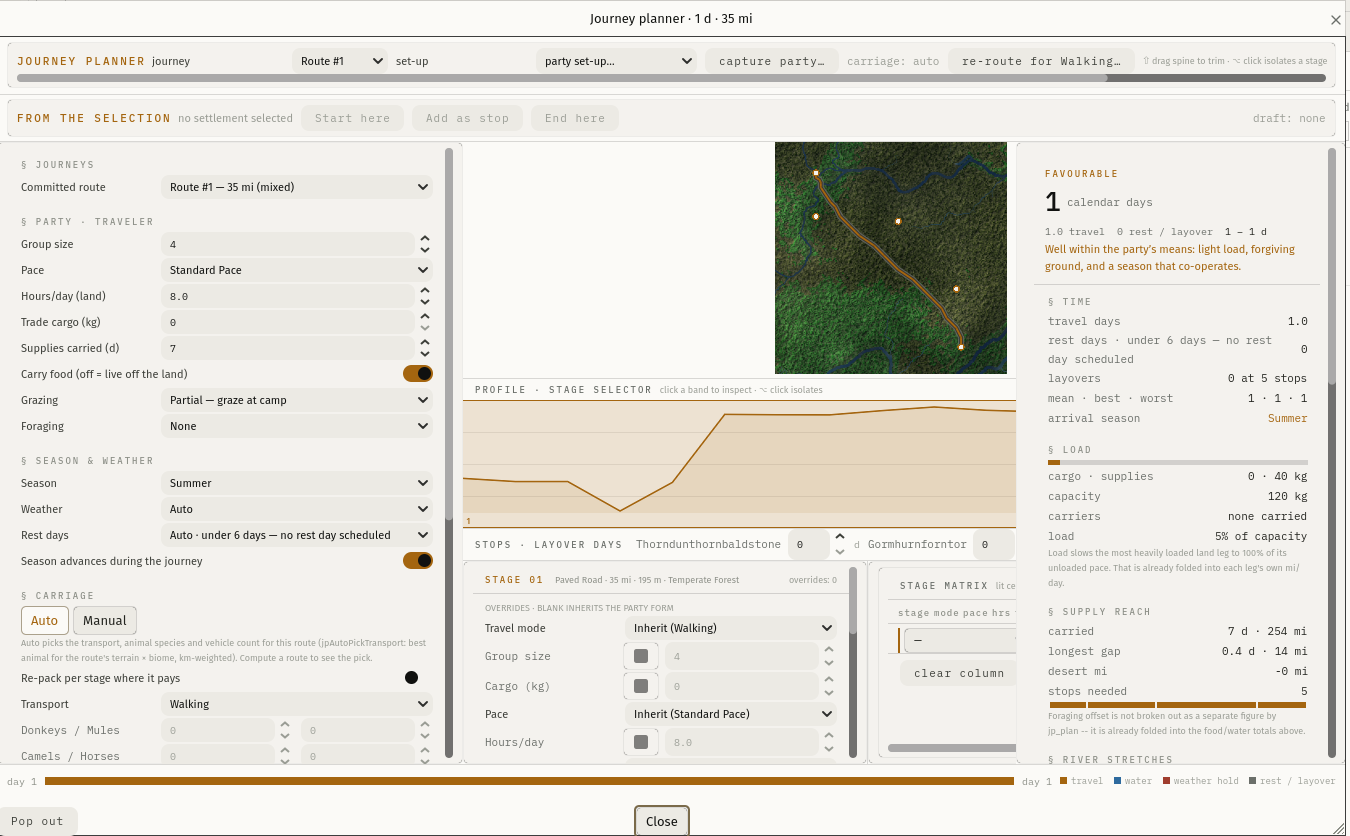
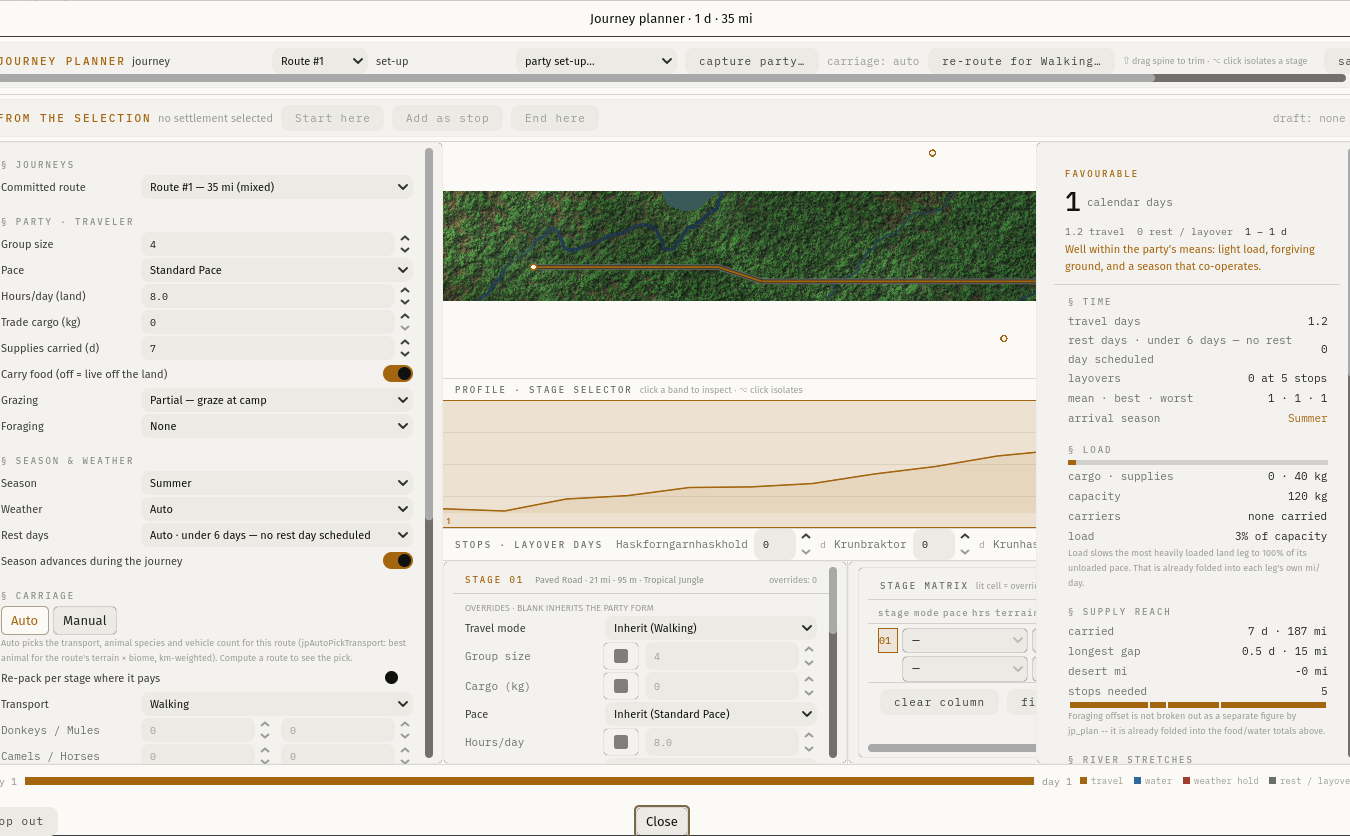
Ruling EU items 2 and 3, after Ruling EV: stop steps on the way, a least saving, no offers to parties with animals
Rebased onto fcda4d3d (Ruling EV's basin routing moves the census worlds' rivers and settlements) and re-measured.

- The x16 frames showed a joined route hooking beside the road where a crossing way cut its ride short just before the
  town. The first and last splice now reach a stop within reach along their way's own line, over at most MIN_RIDE_CELLS
  routed cells and only where the way gets there about as directly as the straight line, and a two-point step is drawn
  straight. An unbounded first version re-routed one owner-world route past the cost test (0.43 to 1.00 of its points
  on a way, 126 to 40 planned days); the bound puts it back.
- An offer must save at least MIN_SAVING_DAYS (0.05 d, the planner's one-decimal display; owner Q3).
- A party with pack animals, a mount or vehicles is offered no river stretch yet and told why (owner Q6: the hold
  costing counts neither).
- The alignment note says "cuts across the route's bends" past an eta of 1 instead of a percentage over 100.
- way_join_census passes the world's basin routing to fresh_river_channels_with.

Measured on the rebased tree (release, run alone, 24 town routes): route strokes beside a way at x4 27 to 0 and at the
opening view 2 to 0; route points on a way 0.42-1.00 with the join; planned days equal or fewer on 22 routes, more on 2
(+1.9 % and 0.2 d; the margin is router cost); commit 2.8-2.9 times the plain one (about 150 against 52 ms); offers on 13
[…]

diff --git a/cartalith-native/crates/cartalith-civ/src/way_join.rs b/cartalith-native/crates/cartalith-civ/src/way_join.rs
@@ -38,7 +38,10 @@
 //!    route renders on the way's curve instead of beside it. Only the off-way
 //!    pieces are smoothed ([`civ_smooth_path`]). A spliced point that fails the
 //!    mode's terrain test (a way sample drawn on water: Ruling EU item 1's
-//!    residue) keeps the routed cells for that run.
+//!    residue) keeps the routed cells for that run. A stop within reach of the
+//!    first or last ridden way is reached along that way over at most
+//!    [`MIN_RIDE_CELLS`] routed cells, then by one straight step, so the line
+//!    does not hook beside the road at a town (`extend_stretch`).
 //!
 //! **What it must never do:** change [`tools::civ_dijkstra_path`] or
 //! [`tools::civ_join_dijkstra_segs`] (every golden, every way commit and the
@@ -214,6 +217,45 @@ fn way_stretch(
     out.push((pb.2, pb.3));
     out.dedup();
     (out.len() >= 2).then_some(out)
+}
+
+/// `st` (a way stretch, in travel order) extended along its own way so that its
+/// last point (`at_end`) or its first point (not `at_end`) is the projection of
+/// `stop`, when `stop` lies within `reach` of the way and beyond that end of the
+/// stretch in the stretch's own direction (never folding back along the way), and
+/// the way gets there about as directly as the straight line does: the length it
+/// adds is at most `(1 + JOIN_MARGIN)` times the straight distance from the
+/// stretch's end to the stop plus `reach`, so a stop beside a winding road is
+/// never reached by riding the road's whole detour. The other end of the stretch
+/// stays where it is. The caller extends only over the last few routed cells
+/// before a stop (see `civ_dijkstra_path_joined`): this tidies the step onto or
+/// off a way and must never re-route a leg past the join's cost test.
+fn extend_stretch(
+    pts: &[(f64, f64)],
+    brks: &[usize],
+    st: &[(f64, f64)],
+    stop: (f64, f64),
+    at_end: bool,
+    reach: f64,
+    gw: usize,
+) -> Option<Vec<(f64, f64)>> {
+    let (fixed, far) = if at_end { (st[0], *st.last()?) } else { (*st.last()?, st[0]) };
+    let pf = project(pts, fixed.0, fixed.1)?;
+    let pe = project(pts, far.0, far.1)?;
+    let ps = project(pts, stop.0, stop.1)?;
+    let key = |p: &(usize, f64, f64, f64, f64)| p.0 as f64 + p.1;
+    let (kf, ke, ks) = (key(&pf), key(&pe), key(&ps));
+    // The stop must lie past the stretch's far end, on the far side of `fixed`.
+    if ps.4 > reach || (ke - kf) * (ks - ke) <= 0.0 {
+        return None;
+    }
+    let ext = way_stretch(pts, brks, fixed, stop, reach, gw)?;
+    let len = |l: &[(f64, f64)]| l.windows(2).map(|w| (w[1].0 - w[0].0).hypot(w[1].1 - w[0].1)).sum::<f64>();
+    let straight = (stop.0 - far.0).hypot(stop.1 - far.1);
+    if len(&ext) - len(st) > (straight + reach) * (1.0 + JOIN_MARGIN) {
+        return None;
+    }
+    Some(if at_end { ext } else { ext.into_iter().rev().collect() })
 }
 
 /// Whether every point of `st`, and every point along its segments at most half
@@ -393,6 +435,34 @@ pub fn civ_dijkstra_path_joined(
     if splices.is_empty() {
         return (civ_route_trace(ctx, &grid, &prev_c, cells, (sx, sy, ex, ey), mode), report, Vec::new());
     }
+    // A stop within reach of the first or last ridden way is reached along that
+    // way, then by a straight step: otherwise the few routed cells between the
+    // ride's end and the stop are smoothed into a hook beside the road (seen at
+    // x16 on seed 912345, `_jpwayriver_probe`, 2026-11-13).
+    // Only over at most `min_ride_cells` routed cells before or after the stop:
+    // a longer stretch between the stop and the ride is a route the cost test
+    // chose, and is kept.
+    let last_raw = raw.len() - 1;
+    if let Some(first) = splices.first_mut().filter(|f| f.1 <= opts.min_ride_cells) {
+        let (w, _, _, st) = first;
+        let wr = &ctx.ways[*w];
+        if let Some(ext) = extend_stretch(wr.pts, wr.brks, st, raw[0], false, reach, ctx.gw)
+            && (!checked || stretch_is_valid(&ext, &ok_at))
+        {
+            *st = ext;
+            first.1 = 1;
+        }
+    }
+    if let Some(last) = splices.last_mut().filter(|l| last_raw - l.2 <= opts.min_ride_cells + 1) {
+        let (w, _, _, st) = last;
+        let wr = &ctx.ways[*w];
+        if let Some(ext) = extend_stretch(wr.pts, wr.brks, st, raw[last_raw], true, reach, ctx.gw)
+            && (!checked || stretch_is_valid(&ext, &ok_at))
+        {
+            *st = ext;
+            last.2 = last_raw - 1;
+        }
+    }
     report.spliced_runs = splices.len();
     let (pts, brks, km, spans) = assemble(ctx, &raw, &splices, &valid);
     (DijkstraPath { pts, brks, km, reachable: true }, report, spans)
@@ -439,8 +509,18 @@ fn assemble(
     let mut brks: Vec<usize> = Vec::new();
     let mut km = 0.0f64;
     let mut spans = Vec::new();
+    let checked = !matches!(valid, TerrainValid::Unchecked);
+    let ok_at = |x: f64, y: f64| !checked || valid.check(x, y, ctx.gw, ctx.gh, ctx.water_bodies);
     let smooth_piece = |piece: &[(f64, f64)], pts: &mut Vec<(f64, f64)>, brks: &mut Vec<usize>, km: &mut f64| {
         if piece.len() < 2 {
+            return;
+        }
+        // A two-point piece (a stop's straight step onto or off a way) has
+        // nothing to smooth; it is drawn as the straight step it is when that
+        // step passes the leg's terrain test, so smoothing adds no wobble at it.
+        if piece.len() == 2 && stretch_is_valid(piece, &ok_at) {
+            *km += polyline_km(piece, ctx.gw, ctx.map_width_km);
+            push_piece(piece, &[], pts, brks);
             return;
         }
         match civ_smooth_path(piece, ctx.gw, ctx.gh, ctx.water_bodies, ctx.map_width_km, valid) {
@@ -713,6 +793,55 @@ mod tests {
         assert_eq!(spans.len(), 1);
         let on = p.pts.iter().filter(|q| q.0 > 10.0 && q.0 < 50.0 && dist_to(&w, **q) > 1e-9).count();
         assert_eq!(on, 0, "{:?}", p.pts);
+    }
+
+    /// Protects the stop step: a destination two cells past the end of the road it
+    /// rides is reached along the road to its end, then by one straight step, never
+    /// by routed cells smoothed into a hook beside the road; the same at the start.
+    #[test]
+    fn a_stop_beside_the_road_is_reached_along_it() {
+        let (gw, gh) = (60, 30);
+        let (field, wb) = flat(gw, gh);
+        // Steps shorter than half the map: a longer step reads as the x seam.
+        let w: Vec<(f64, f64)> = (0..=4).map(|k| (8.0 + 11.0 * k as f64, 12.0)).collect();
+        let ways = [road(&w)];
+        let c = ctx(&field, &wb, &ways, gw, gh);
+        let (p, _, spans) = civ_dijkstra_path_joined(&c, 6.5, 13.5, 53.5, 13.5, RouteMode::Land, &WayJoin::new(1));
+        assert!(!spans.is_empty());
+        let n = p.pts.len();
+        assert_eq!((p.pts[0], p.pts[n - 1]), ((6.5, 13.5), (53.5, 13.5)));
+        // Every point lies on the road or on the straight step from a stop to the
+        // road's end ((8, 12) and (52, 12)), never beside the road.
+        let steps = [vec![(6.5, 13.5), (8.0, 12.0)], vec![(52.0, 12.0), (53.5, 13.5)]];
+        for q in &p.pts {
+            let off = dist_to(&w, *q).min(dist_to(&steps[0], *q)).min(dist_to(&steps[1], *q));
+            assert!(off < 1e-9, "{q:?} is off the road: {:?}", p.pts);
+        }
+        assert!(p.pts.contains(&(8.0, 12.0)) && p.pts.contains(&(52.0, 12.0)), "{:?}", p.pts);
+    }
+
+    /// Protects the stop step where the ride is cut short: a highway crossing the
+    /// road just before the stop owns the cells there (it has the higher planner
+    /// priority), so the road's run ends before the crossing; the stop, beside the
+    /// road two cells past it, is still reached along the road's own line and one
+    /// straight step, where the routed cells through the crossing would draw a
+    /// hook half a cell beside the road.
+    #[test]
+    fn a_ride_cut_short_by_a_crossing_still_reaches_the_stop_along_the_road() {
+        let (gw, gh) = (60, 30);
+        let (field, wb) = flat(gw, gh);
+        // Steps shorter than half the map: a longer step reads as the x seam.
+        let w: Vec<(f64, f64)> = (0..=4).map(|k| (8.0 + 11.0 * k as f64, 12.0)).collect();
+        let hw = [(46.0, 2.0), (46.0, 12.0), (46.0, 22.0)];
+        let ways = [road(&w), WayRef { pts: &hw, brks: &[], sea: false, hidden: false, class: WayClass::Highway }];
+        let c = ctx(&field, &wb, &ways, gw, gh);
+        let (p, _, spans) = civ_dijkstra_path_joined(&c, 6.5, 13.5, 48.5, 13.5, RouteMode::Land, &WayJoin::new(2));
+        assert!(!spans.is_empty());
+        let steps = [vec![(6.5, 13.5), (8.0, 12.0)], vec![(48.5, 12.0), (48.5, 13.5)]];
+        for q in &p.pts {
+            let off = dist_to(&w, *q).min(dist_to(&steps[0], *q)).min(dist_to(&steps[1], *q));
+            assert!(off < 1e-9, "{q:?} is off the road: {:?}", p.pts);
+        }
     }
 
     /// Protects the terrain check on a splice: a way drawn across a lake (Ruling EU

diff --git a/cartalith-native/crates/cartalith-civ/src/river_stretch.rs b/cartalith-native/crates/cartalith-civ/src/river_stretch.rs
@@ -62,6 +62,12 @@ use crate::{
 /// judgement (owner question Q1).
 pub const ETA_MIN: f64 = 1.0 / 1.5;
 
+/// The least saving, in days, an offer must make: `0.05` d. A labelled judgement
+/// (owner question Q3): the planner prints days to one decimal, so a stretch that
+/// would show "saves 0.0 d" (measured on the census worlds: 4-12 km stretches
+/// saving minutes) is not an offer.
+pub const MIN_SAVING_DAYS: f64 = 0.05;
+
 /// A recommended hull is the cheapest whose days are within this share of the
 /// fastest hull's: `JP_STAGE_PICK_MARGIN` (0.10), the margin the per-stage auto
 /// pick already uses for "close enough to the best", so the planner has one
@@ -514,8 +520,9 @@ pub const NOTE_NONE_QUICKER: &str = "No navigable river along this route saves t
 /// (a shorter one would fold back into land). A candidate overlapping a leg the
 /// plan already holds is skipped. Each offer's days come from an **exact**
 /// re-plan with the leg added, sailed by the recommended hull, against `base`
-/// (the plan as computed), never an estimate; an offer that saves no time is not
-/// returned (owner question Q2's default: upstream only when quicker). Costs two
+/// (the plan as computed), never an estimate; an offer that saves less than
+/// [`MIN_SAVING_DAYS`] is not returned (owner question Q2's default: upstream
+/// only when quicker). Costs two
 /// `jp_plan_full` runs per candidate, at most [`MAX_OFFERS`] candidates.
 #[allow(clippy::too_many_arguments)]
 pub fn jp_river_offers(
@@ -581,7 +588,7 @@ pub fn jp_river_offers(
         let ((b, bb), (d, db)) = (days_of(base), days_of(&exact));
         let (saving, basis, days_with) =
             if bb == db { (b - d, db, d) } else { (base.days - exact.days, "travel", exact.days) };
-        if saving.is_nan() || saving <= 0.0 {
+        if saving.is_nan() || saving < MIN_SAVING_DAYS {
             continue;
         }
         out.push(JpRiverOffer {

diff --git a/cartalith-native/crates/cartalith-civ/tests/ruling_eu_river_legs.rs b/cartalith-native/crates/cartalith-civ/tests/ruling_eu_river_legs.rs
@@ -101,11 +101,13 @@ fn walking() -> JpPlan {
 }
 
 /// Protects the alignment threshold as a literal: `1 / 1.5` (Leopold and
-/// Wolman's meander sinuosity), so a change to it is deliberate.
+/// Wolman's meander sinuosity), the recommendation margin and the least saving,
+/// so a change to any of them is deliberate.
 #[test]
 fn eta_min_is_one_over_the_meander_sinuosity() {
     assert!((ETA_MIN - 0.666_666_666_666_666_6).abs() < 1e-15);
     assert!((RECOMMEND_MARGIN - 0.10).abs() < 1e-15);
+    assert!((cartalith_civ::river_stretch::MIN_SAVING_DAYS - 0.05).abs() < 1e-15);
 }
 
 /// Protects the stretch finder: a river running beside the route three cells off

diff --git a/cartalith-native/crates/cartalith-godot/src/way_join_census.rs b/cartalith-native/crates/cartalith-godot/src/way_join_census.rs
@@ -131,6 +131,7 @@ fn measure_planner_way_join_and_river_offers() {
             p.map_width_km,
             ws.integrated_drainage,
             cartalith_engine::routing_roughness_of(ws.routing_roughness, gw, gh, p.world).as_ref(),
+            cartalith_engine::fill_tilt_of(ws.basin_routing),
         );
         let world = JpWorld {
             gw,

diff --git a/cartalith-native/docs/STATUS.md b/cartalith-native/docs/STATUS.md
@@ -420,7 +420,8 @@ keep their points.
   whose progress along the route is at least `ETA_MIN` = 1/1.5 of its own length (Leopold and Wolman's meander sinuosity,
   a recalled citation), no shorter than the stage builder's water-gap length. Each offer's saving is an **exact re-plan**
   with the leg sailed by the recommended hull (the cheapest within `RECOMMEND_MARGIN` 10 % of the fastest that fits the
-  whole stretch, owner question Q5's default); an offer that saves no time is not shown. An accepted leg is
+  whole stretch, owner question Q5's default); an offer that saves less than `MIN_SAVING_DAYS` 0.05 d is not shown, and a
+  party with pack animals, a mount or vehicles is offered none yet, with the reason (owner question Q6). An accepted leg is
   `JpPlan::river_legs`: `jp_plan_full` splices its channel cells into the planned route, `jp_derive_stages_legs` makes
   its points river stages whatever the transport (never collapsed, absorbed or merged by the 14-stage cap), the leg sails
   its own hull (never an index-keyed override), and a leg that no longer matches the world or the route is dropped with
@@ -430,47 +431,64 @@ keep their points.
   the join report) in the results on every form, offered stretches dashed and numbered on the route map, on-way stretches
   cased, a river leg's Vessel override greyed with its reason, and the join said on the status line after a commit
   (`JOURNEY_PLANNER_SPEC.md` §8).
-- **Measured (release, `way_join_census::measure_planner_way_join_and_river_offers`, run alone; 8 town pairs a world, the
-  most populous places, walking, join OFF → ON; the figures below repeated exactly in a second run):**
-  - Commit time per route, median (min..max) over 8 routes, two separate runs on a shared machine: owner world 87 (79..157)
-    → 314 (220..645) ms and 432 (252..551) → 608 (419..813) ms; 483920 109 → 251 and 54 → 153 ms; 912345 77 → 204 and 255 →
-    487 ms. The join costs about 1.4-3.6 times the plain commit; the spreads are wide and no closer ratio is established.
-    The river offers added 1-7 ms (median) to a compute.
-  - Share of route points the planner credits to a way (`jp_way_spans`): owner world 0.56-0.96 → 0.77-1.00; 483920
-    0.83-1.00 → 0.96-1.00; 912345 0.71-0.94 → 0.96-1.00.
+- **Measured (release, `way_join_census::measure_planner_way_join_and_river_offers`, run alone, on this tree rebased onto
+  `fcda4d3d` (Ruling EV's basin routing, which moves the worlds' rivers and settlements); 8 town pairs a world, the most
+  populous places, walking, join OFF → ON):**
+  - Commit time per route, median (min..max) over 8 routes: owner world 53.8 (53.3..54.6) → 151.8 (149.9..152.9) ms;
+    483920 49.8 (48.9..52.1) → 140.4 (97.0..141.6) ms; 912345 51.9 (51.2..54.4) → 149.0 (147.2..151.5) ms. An earlier
+    separate run gave the same within 3 %: the join costs about 2.8-2.9 times the plain commit. The river offers added
+    0.8-5.1 ms (median) to a compute.
+  - Share of route points the planner credits to a way (`jp_way_spans`): owner 0.31-0.98 → 0.42-0.98; 483920 0.56-0.95 →
+    0.91-1.00; 912345 0.69-1.00 → 0.94-1.00. One route reads slightly lower with the join (912345 #3, 1.00 → 0.97).
   - The route's own strokes beside a drawn way (`way_audit::bundle_stretches`, the route as one more drawn way): at the
-    opening view 0 → 0 on all 24 routes but one (912345 #7, 1 → 0). At x4: owner 16 → 5 stretches, 483920 13 → 1, 912345
-    12 → 2. Routes left with a stretch beside a way at x4: 6 of 24 (bar "zero" not met; disclosed). One of them (owner #1)
-    is unchanged by the join (way share 0.78 either way); why was not traced.
-  - Planned walking days: never worse with the join; owner 66.4 → 45.2, 147.3 → 140.6, 130.0 → 103.5 (the riding route
-    reads its road row on more of its points). Every leg's joined cost within the margin (asserted).
-  - Only 1 leg of 24 took a detour onto a way (912345 #4, 1.069 of the direct cost); the rest kept the direct path and
-    were drawn on the way they already followed. The stickier re-route rarely finds a way the direct path does not use.
-  - River offers on the joined routes: owner 7 of 8 routes, 1-2 offers each, saving 0.1-7.5 d; 483920 3 of 8 (0.1-0.4 d);
-    912345 4 of 8 (0.1-0.9 d). **The recommended hull is the Longship on every offer** (the reference rates it 11 km/h on
-    rivers; no cheaper hull came within 10 %); that is owner question Q5's to settle.
-- **Verified:** `cargo test --workspace` 275 result lines, 8 190 passed, 0 failed, 168 ignored (run after the last behaviour change; comment-only edits followed); the unit tests in `way_join`, `tools`, `lib.rs`
-  (`road_sources_cover_exactly_the_road_cells`, `way_spans_name_the_way_a_route_rides_and_bridge_one_point`),
-  `tests/ruling_eu_river_legs.rs` (12) and `project_bridge::river_legs_round_trip_under_the_documented_key`; literal
-  mutants (`Python`, exact replace, restored and hash-checked): 20 of 22 killed. Survivors: the splice's segment check
-  (`stretch_is_valid`, redundant on the fixtures with the per-point check before it, which already splits a ride at water)
-  and the leg hull in the season-drift pre-pass of `jp_plan_full` (only moves the stage mid-days the drift reads). Windowed probe `_jpwayriver_probe.tscn` (seed 912345, 1024 x 656; DLL 04:54:42, newest `.rs` 04:54:16,
+    opening view 2 → 0 (912345 #3 and #4); at x4 27 → 0 (owner 0 → 0, 483920 14 → 0, 912345 13 → 0). No route of the 24
+    keeps a stretch beside a way at either view.
+  - Planned walking days: equal or fewer on 22 of 24 routes (owner #4 148.7 → 114.9); **more on 2** (owner #5 175.4 →
+    178.8, +1.9 %; 912345 #3 2.5 → 2.7). The margin is in router cost, not planned days (the read-only map's stated
+    risk); disclosed, not fixed.
+  - Only 1 leg of 24 took a detour onto a way (483920 #5, 1.059 of the direct cost); the rest kept the direct path and are
+    drawn on the way they already followed. Every joined leg within the margin (asserted).
+  - River offers on the joined routes: owner 8 of 8 routes, 483920 0 of 8, 912345 5 of 8; 30 offers, saving 0.1-12.0 d.
+    **The recommended hull is the Longship on every offer** (the reference rates it 11 km/h on rivers; no cheaper hull
+    came within 10 %); owner question Q5's to settle.
+  - Before the rebase (the worlds as they were before Ruling EV) the same census found x4 stretches 41 → 8 over the 24
+    routes and offers on 14 of them; the stop step below was added after that run.
+- **The stop step (found by looking at the x16 frames):** a ride cut short just before its stop (a crossing way owns the
+  last cells) drew the last routed cells as a hook beside the road. The first and last splice are now extended along
+  their way to the stop's own projection, over at most `MIN_RIDE_CELLS` routed cells and only where the way gets there
+  about as directly as the straight line, and a two-point step is drawn straight. An unbounded first version re-routed one
+  owner-world route (0.43 → 1.00 of its points on a way, 126 → 40 planned days) past the cost test; the bound puts it back
+  (0.42, 126.1 d).
+- **Verified:** `cargo test --workspace` 276 result lines, 8 207 passed, 0 failed, 169 ignored, on the rebased tree after
+  the last Rust change (a doc-comment edit to `way_join.rs` followed). Unit tests: `way_join` (13, among them the loop ridden within the margin and not past it, a hidden
+  way, an undrawn edge, the drawing on the road's own line, water under a way, the stop steps, determinism), `tools`
+  (`way_owner_matches_the_discount_owner`, ties included), `lib.rs` (`road_sources_cover_exactly_the_road_cells`,
+  `way_spans_name_the_way_a_route_rides_and_bridge_one_point`), `tests/ruling_eu_river_legs.rs` (14) and
+  `project_bridge::river_legs_round_trip_under_the_documented_key`. Literal mutants (Python, exact replace, restored and
+  hash-checked): 22 of 26 killed. Survivors: the splice's segment check (`stretch_is_valid`; on the fixtures the per-point
+  check before it already splits a ride at water), the leg hull in `jp_plan_full`'s season-drift pre-pass (it moves only
+  the stage mid-days the drift reads), the stop step's direction guard, and `MIN_SAVING_DAYS` (no fixture saves between 0
+  and 0.05 d). The stop step's few-cells limit and length bound were not mutated; no unit test guards them (the census
+  caught the unlimited version: above).
+  Windowed probe `_jpwayriver_probe.tscn` (seed 912345, 1024 x 656; DLL 05:37:52 after the last `.rs` edit at 05:37:33;
   under the window lock) PASS on the desktop (mouse input through `Input.parse_input_event`) and on the phone (1080 x
-  2340, `--force-touch`, screen touches): the joined route's points lie on a way's own line (share 0.11 → 0.95 on the
+  2340, `--force-touch`, screen touches): the joined route's points lie on a way's own line (share 0.44 → 1.00 on the
   first pair), the *On ways* section draws, **use river** adds one river leg whose planned days equal the offer's to
-  0.01 d (1.84 → 0.77 d), the hull menu re-hulls it (Keelboat, 2.13 d) and **walk instead** restores 1.84 d. Phone
+  0.01 d (2.28 → 1.44 d), the hull menu re-hulls it (Keelboat, 3.68 d) and **walk instead** restores 2.28 d. Phone
   buttons 126 px tall at 1080 wide. Parse-checked `journey_planner_view.gd`, `shell/app.gd` and the probe.
   Composites in `cartalith-native/docs/evidence/ways-planner-2026-11-12/`, opened and looked at:
   `planner_join_way_x16_x4_off_on.png` (x16: the unjoined route runs as a second stroke beside the road, the joined one
-  on it), `planner_join_way_window.png`, `planner_river_offer_desktop.png` and `planner_river_offer_phone.png`.
+  on it into the town), `planner_join_way_window.png`, `planner_river_offer_desktop.png` and
+  `planner_river_offer_phone.png`.
 - **Open:** owner questions Q1 (preference or world parameter; no UI toggle yet, `set_route_join_ways` only), Q2 (margin,
   minimum ride, stickiness), Q3 (sea lanes: land ways only), Q4 (a per-route direct-line opt-out: not built), Q5 (old-route
   re-routes join: yes), and item 3's: the alignment tolerance, upstream only when quicker, the corridor of one day, the
   hull rule (Longship everywhere today), pack animals and vehicles aboard (`jp_calc_water_ex` counts neither against the
-  hold: not resolved), auto-accept (off), declines saved (session only today), item 2 vs item 3 precedence (an accepted
+  hold, so a party with animals, a mount or vehicles is offered no stretch yet and told why), auto-accept (off), declines saved (session only today), item 2 vs item 3 precedence (an accepted
   leg's points ride no way), offers on the main map (not built). A leg is drawn on channel cells, which can sit off the
   painted river (Ruling ER's display meander; not measured). The tablet form was not probed (desktop and phone were).
-  The commit with the join costs about three times the plain commit (above).
+  The commit with the join costs about 2.8-2.9 times the plain commit, and two of 24 routes plan slightly more days with
+  it (above).
 
 ### Long-press to drag on touch: Asset library tiles (2026-11-12)
 

diff --git a/OUTSTANDING_WORK.md b/OUTSTANDING_WORK.md
@@ -3290,10 +3290,11 @@ hull, accepted as `JpPlan::river_legs`, saved with the journey's plan). **Still 
 (world parameter or preference, and no UI toggle yet; margin, minimum ride and stickiness; sea lanes; a per-route
 direct-line opt-out, not built; old-route re-routes join) and item 3's (alignment tolerance 1/1.5; upstream only when
 quicker; a corridor of one day's travel; the hull rule, which picks the Longship on every offer measured; pack animals and
-vehicles aboard, which `jp_calc_water_ex` does not count against the hold; auto-accept, off; declines saved, session
-only; precedence with item 2; offers drawn on the main map, not built); 5-6 of 24 measured routes still draw a stretch
-beside a way at x4; a leg is drawn on channel cells, which can sit off the painted river (unmeasured); the tablet form was
-not probed; a joined commit costs about three times a plain one.
+vehicles aboard, which `jp_calc_water_ex` does not count against the hold, so such a party is offered none yet; the least
+saving, 0.05 d; auto-accept, off; declines saved, session only; precedence with item 2; offers drawn on the main map, not
+built); 2 of 24 measured routes plan slightly more days with the join (the margin is router cost, not days); the stop
+step's few-cells limit has no unit test; a leg is drawn on channel cells, which can sit off the painted river
+(unmeasured); the tablet form was not probed; a joined commit costs about 2.8-2.9 times a plain one.
 
 **Zoom-dependent river drawing (owner request, 2026-11-09).** The owner wants the map's drawn rivers to depend on
 zoom: *"smaller estuaries, rivers or channels won't be drawn until the appropriate zoom has been reached. There
